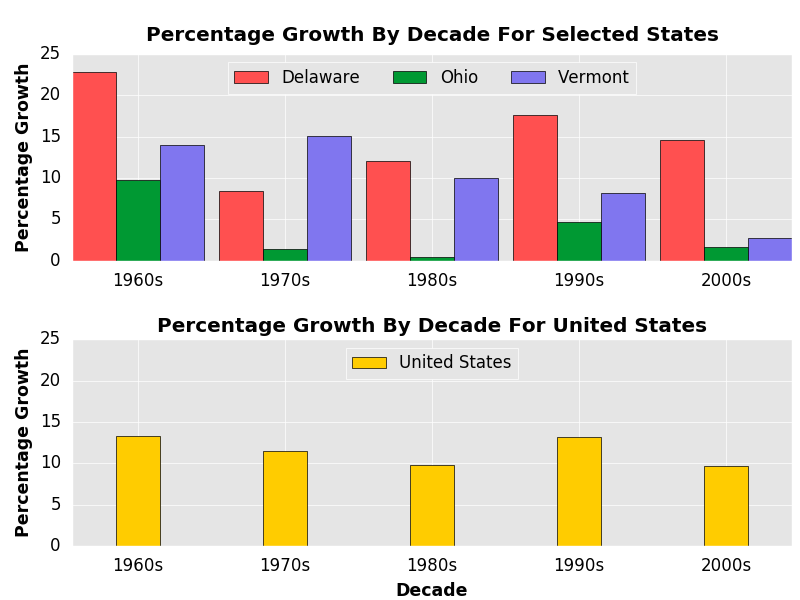
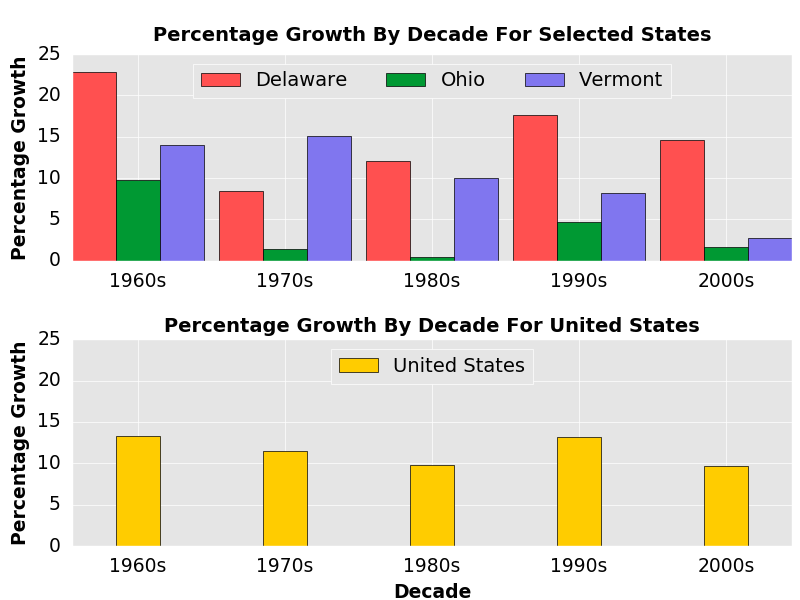
modify multi plot grouped bar graph
increase legend text size and size of other text elements. add new
image.

diff --git a/multi_plot_grouped_bar_graph.py b/multi_plot_grouped_bar_graph.py
@@ -97,20 +97,22 @@ ax1.title.set_position([0.5, 1.05])
 
 # Set title, x-axis, and y-axis labels for first subplot.
 plt.title('Percentage Growth By Decade For Selected States',
-          fontweight = 'bold')
+          fontweight = 'bold',
+          fontsize = 14)
 plt.ylabel('Percentage Growth',
            fontweight = 'bold',
-           fontsize = 12.5,
+           fontsize = 13.5,
            color = 'black')
 
 # For first subplot x-axis and y-axis: remove ticks, change tick labels to black and pick size.
 ax1.tick_params(axis = 'both',
                 length = 0,
                 colors = 'black',
-                labelsize = 12)
+                labelsize = 13.5)
 
 # Show legend for first subplot.
 plt.legend(loc = 'upper center',
+           fontsize = 14,
            ncol = 3)
 
 # Create second subplot.
@@ -129,7 +131,7 @@ ax2.bar([0.3, 1.3, 2.3, 3.3, 4.3],
 ax2.tick_params(axis = 'both',
                 length = 0, 
                 colors = 'black',
-                labelsize = 12)
+                labelsize = 13.5)
 
 # Fix x-axis labels for second subplot.
 plt.xticks([0.45, 1.45, 2.45, 3.45, 4.45],
@@ -144,18 +146,20 @@ ax1.title.set_position([0.5, 1.03])
 
 # Set title, x-axis, and y-axis labels for first subplot.
 plt.title('Percentage Growth By Decade For United States',
-          fontweight = 'bold')
+          fontweight = 'bold',
+          fontsize = 14)
 plt.xlabel('Decade',
            fontweight = 'bold',
-           fontsize = 12.5,
+           fontsize = 13.5,
            color = 'black')
 plt.ylabel('Percentage Growth',
            fontweight = 'bold',
-           fontsize = 12.5,
+           fontsize = 13.5,
            color = 'black')
 
 # Add legend.
-plt.legend(loc = 'upper center')
+plt.legend(loc = 'upper center',
+           fontsize = 14)
 
 # Adjust plot margins.
 plt.subplots_adjust(left = 0.09,
